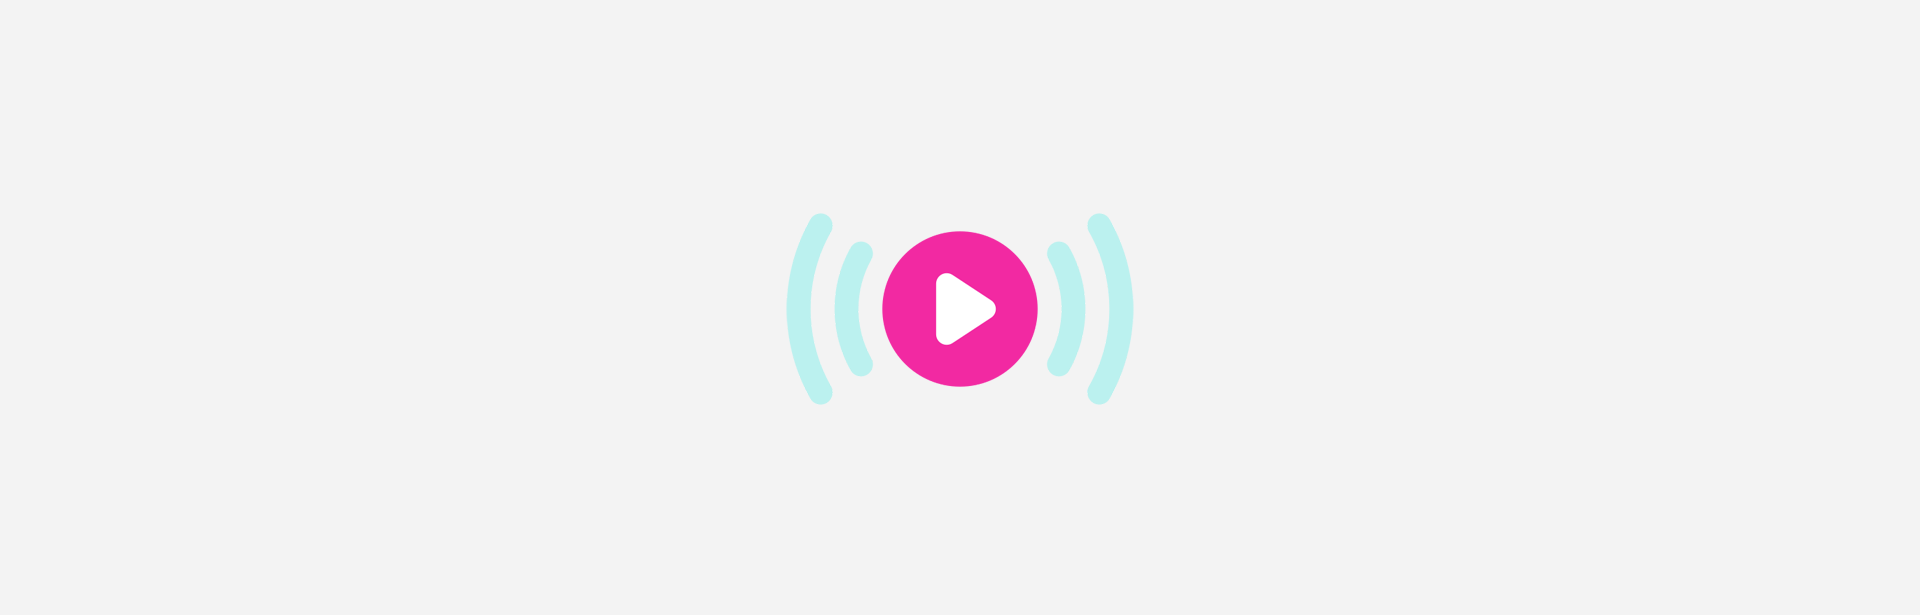
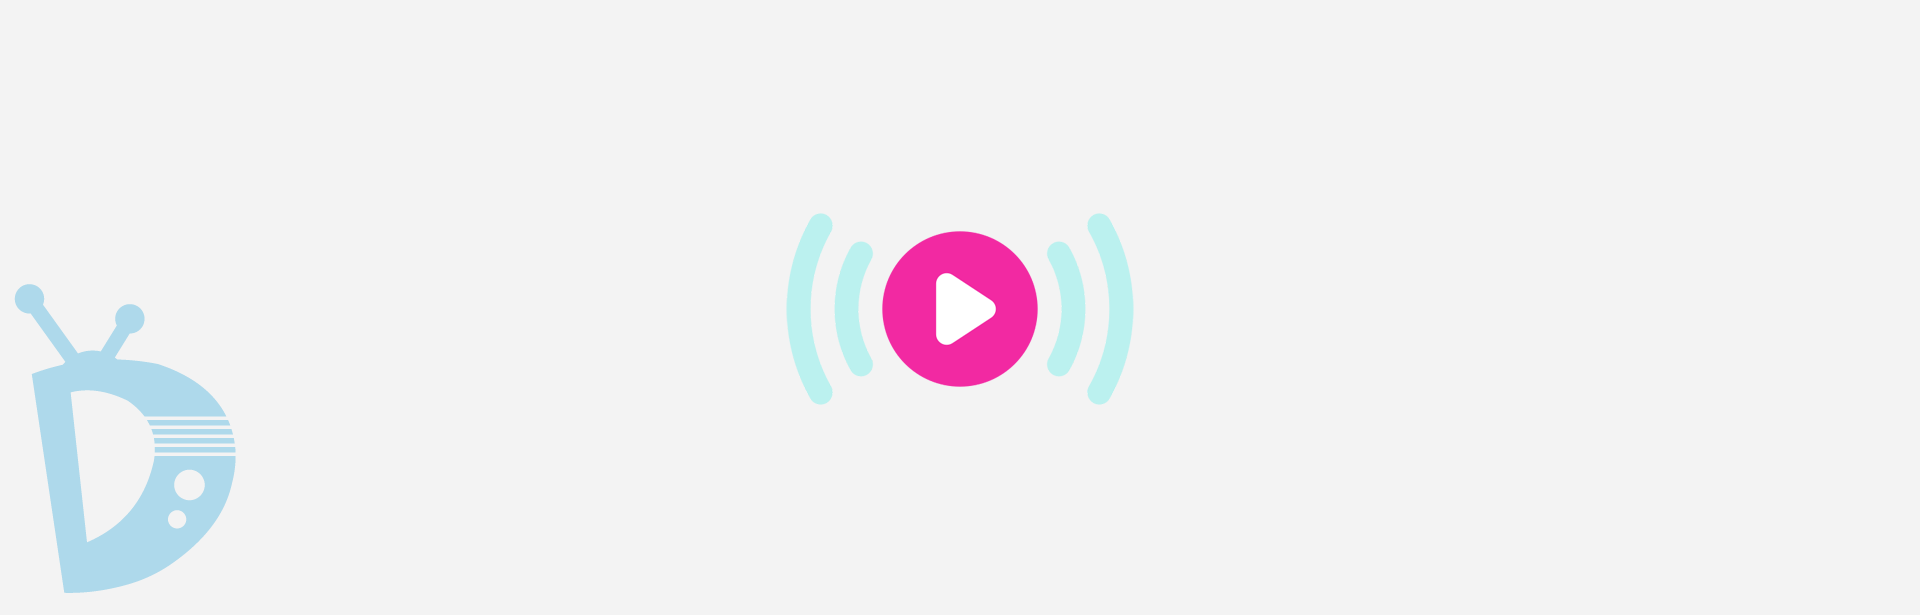
n

Changed region(s): [[0.0, 0.4634, 0.125, 0.9886]]

diff --git a/resources/views/partials/media/datas.blade.php b/resources/views/partials/media/datas.blade.php
@@ -58,14 +58,14 @@ if (!empty($current_media->belongs_to)) {
                             <div class="col-lg-10 col-sm-9 mx-auto">
     @if ($current_media->type->type_name == __('miscellaneous.media_types.tv_series') || $current_media->type->type_name == __('miscellaneous.media_types.music_album'))
                                 <div class="bg-image">
-                                    <img src="{{ $current_media->cover_url }}" alt="{{ $current_media->media_title }}" class="w-100 rounded-4">
+                                    <img src="{{ !empty($current_media->cover_url) ? $current_media->cover_url : asset('assets/img/blank-media-video.png') }}" alt="{{ $current_media->media_title }}" class="w-100 rounded-4">
                                     <div class="mask"></div>
                                 </div>
     @endif
 
     @if ($current_media->type->type_name != __('miscellaneous.media_types.tv_series') && $current_media->type->type_name != __('miscellaneous.media_types.music_album'))
                                 <div class="ratio ratio-16x9">
-                                    <iframe id="ytplayer" src="{{ $current_media->media_url }}?showinfo=0&modestbranding=1&enablejsapi=1&origin={{ getWebURL() }}"frameborder="0"></iframe>
+                                    <iframe src="{{ $current_media->media_url }}?rel=0"frameborder="0"></iframe>
                                 </div>
     @endif
 
@@ -122,11 +122,7 @@ if (!empty($current_media->belongs_to)) {
                                 </div>
 
                                 <div class="d-flex justify-content-between">
-                                    <div class="count text-muted">
-                                        @lang('miscellaneous.views')@lang('miscellaneous.colon_after_word') <span class="d-inline-block me-3">{{ thousandsCurrencyFormat(count($views)) }}</span>
-                                        @lang('miscellaneous.likes')@lang('miscellaneous.colon_after_word') <span class="d-inline-block">{{ thousandsCurrencyFormat(count($likes)) }}</span>
-                                    </div>
-
+    @include('partials.count')
                                     <div class="action">
                                         <button title="{{ inArrayR($current_media->id, $watchlist->orders, 'media_id') ? __('miscellaneous.public.withdraw_watchlist') : __('miscellaneous.public.add_watchlist') }}" class="Watch-list-btn{{ inArrayR($current_media->id, $watchlist->orders, 'media_id') ? ' dktv-btn-green' : '' }}" type="button" data-status="{{ inArrayR($current_media->id, $watchlist->orders, 'media_id') ? 'added' : 'withdrawn' }}" data-watchlist-id="{{ $watchlist->id }}" onclick="event.preventDefault(); toggleAction(this, {{ $current_media->id }}, 'watchlist');">
                                             <i class="zmdi zmdi-{{ inArrayR($current_media->id, $watchlist->orders, 'media_id') ? 'check' : 'plus' }}"></i>
@@ -149,6 +145,40 @@ if (!empty($current_media->belongs_to)) {
     @endforelse
                             </div>
                         </div>
+
+    @if ($current_media->type->type_name == __('miscellaneous.media_types.tv_series') || $current_media->type->type_name == __('miscellaneous.media_types.music_album'))
+<?php
+$belonging_medias = $api_client_manager::call('GET', getApiURL() . '/media/find_by_belongs_to/' . $current_media->id);
+?>
+
+        @if ($belonging_medias->success)
+            @if (count($belonging_medias->data) > 0)
+                        <div class="row">
+                            <div class="col-12">
+                                <h3 class="mt-4 mb-3 text-muted fw-bold">
+                @if ($current_media->type->type_name == __('miscellaneous.media_types.tv_series'))
+                                    @lang('miscellaneous.public.media.all_episodes')
+                @endif
+                @if ($current_media->type->type_name == __('miscellaneous.media_types.music_album'))
+                                    @lang('miscellaneous.public.media.all_songs')
+                @endif
+                                </h3>
+                            </div>
+                            <div class="col-12">
+                                <div class="list-group list-group-flush">
+                @foreach ($belonging_medias->data as $media)
+                                    <a href="{{ route('media.datas', ['id' => $media->id]) }}" class="list-group-item list-group-item-action">
+                                        <img src="{{ !empty($media->cover_url) ? $media->cover_url : asset('assets/img/blank-media-video.png') }}" alt="{{ $media->media_title }}" width="190" class="float-start rounded-4 me-3">
+                                        <h4 class="my-2 dktv-text-green fw-bold">{{ $media->media_title }}</h4>
+                                        <p class="text-muted">{{ !empty($media->media_description) ? Str::limit($media->media_description, 20, '...') :$media->author_names }}</p>
+                                    </a>
+                @endforeach
+                                </div>
+                            </div>
+                        </div>
+            @endif
+        @endif
+    @endif
                     </div>
                 </div>
                 <!--// Our-product-area Area  -->

diff --git a/resources/views/layouts/app.blade.php b/resources/views/layouts/app.blade.php
@@ -7,6 +7,7 @@
         <meta name="dktv-url" content="{{ getWebURL() }}">
         <meta name="dktv-api-url" content="{{ getApiURL() }}">
         <meta name="dktv-visitor" content="{{ !empty($current_user) ? $current_user->id : null }}">
+        <meta name="dktv-media" content="{{ !empty($current_media) ? $current_media->id : null }}">
         <meta name="csrf-token" content="{{ csrf_token() }}">
         <meta name="dktv-ref" content="{{ !empty($current_user) ? $current_user->api_token : null }}">
         <meta name="csrf-token" content="{{ csrf_token() }}">
@@ -704,8 +705,10 @@ if (request()->has('app_id')) {
              * Refresh an element every second
              */
             setInterval(function() {
-                $('.count').load(window.location.href + ' .count', function() { console.log('loaded'); });
-            }, 1000);
+                const url = currentHost + '/count?media_id=' + $('[name="dktv-media"]').attr('content');
+
+                $('.count').load(url + ' .count');
+            }, 500);
 
             /**
              * Toggle an action on a button

diff --git a/resources/views/partials/count.blade.php b/resources/views/partials/count.blade.php
@@ -1,0 +1,19 @@
+<!DOCTYPE html>
+<html lang="en">
+    <head>
+        <meta charset="UTF-8">
+        <meta name="viewport" content="width=device-width, initial-scale=1.0">
+        <meta http-equiv="X-UA-Compatible" content="ie=edge">
+
+        <!-- ============ Streamo CSS File ============ -->
+        <link rel="stylesheet" href="{{ asset('assets/addons/streamo/css/plugins.css') }}">
+
+        <title>Count</title>
+    </head>
+    <body>
+                                    <div class="count text-muted">
+                                        @lang('miscellaneous.views')@lang('miscellaneous.colon_after_word') <span class="d-inline-block me-3">{{ thousandsCurrencyFormat(count($views)) }}</span>
+                                        @lang('miscellaneous.likes')@lang('miscellaneous.colon_after_word') <span class="d-inline-block">{{ thousandsCurrencyFormat(count($likes)) }}</span>
+                                    </div>
+    </body>
+</html>

diff --git a/app/Http/Controllers/Web/HomeController.php b/app/Http/Controllers/Web/HomeController.php
@@ -157,6 +157,26 @@ class HomeController extends Controller
     }
 
     /**
+     * GET: Count Like/Watchlist actions
+     *
+     * @param  \Illuminate\Http\Request  $request
+     * @param  int $id
+     * @return \Illuminate\View\View
+     */
+    public function countActions()
+    {
+        // All media views API
+        $views = $this::$api_client_manager::call('GET', getApiURL() . '/media/find_views/' . request()->get('media_id'));
+        // All media likes API
+        $likes = $this::$api_client_manager::call('GET', getApiURL() . '/media/find_likes/' . request()->get('media_id'));
+
+        return view('partials.count', [
+            'views' => $views->data,
+            'likes' => $likes->data
+        ]);
+    }
+
+    /**
      * GET: Media details page
      *
      * @param  \Illuminate\Http\Request  $request

diff --git a/routes/web.php b/routes/web.php
@@ -21,6 +21,7 @@ use Illuminate\Support\Facades\Route;
 */
 // Generate symbolic link
 Route::get('/symlink', function () { return view('symlink'); })->name('generate_symlink');
+Route::get('/count', 'App\Http\Controllers\Web\HomeController@countActions')->name('count_actions');
 // Choose age
 Route::get('/choose_age/{for_youth}', function ($for_youth) { session()->put('for_youth', $for_youth); return redirect()->back(); })->whereNumber('for_youth')->name('choose_age');
 // Home

diff --git a/resources/lang/fr/miscellaneous.php b/resources/lang/fr/miscellaneous.php
@@ -824,6 +824,9 @@ return [
         // Media
         'media' => [
             'categories' => 'Catégories',
+            'all_episodes' => 'Épisodes de la série',
+            'all_songs' => 'Chansons de l’album',
+
             'label' => [
                 'title' => 'Titre',
                 'description' => 'Description',

diff --git a/resources/lang/en/miscellaneous.php b/resources/lang/en/miscellaneous.php
@@ -824,6 +824,9 @@ return [
         // Media
         'media' => [
             'categories' => 'Categories',
+            'all_episodes' => 'Episodes of the series',
+            'all_songs' => 'Songs from the album',
+
             'label' => [
                 'title' => 'Title',
                 'description' => 'Description',
